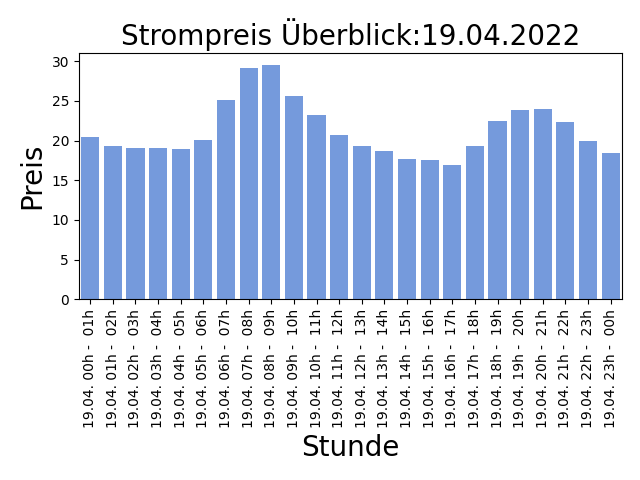
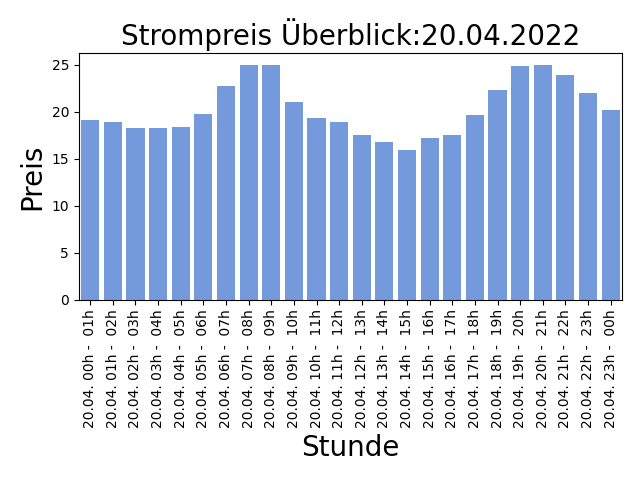
AUTOMATIC UPDATE PRICE LIST: 2022-04-19-14:30:06

diff --git a/README.md b/README.md
@@ -1,5 +1,5 @@
 
-## Strompreise für den 19.04.2022
+## Strompreise für den 20.04.2022
 
 Niedrige Preise deuten auf viel Sonnen und Windenergieerzeugung hin, ein hoher Anteil an erneuerbaren Energien bedeuted weniger CO2 Verbrauch!
 
@@ -7,31 +7,31 @@ Niedrige Preise deuten auf viel Sonnen und Windenergieerzeugung hin, ein hoher A
 
 | Stunde | Preis in Cent/kWh |
 |---|---|
-| 19.04. 00h -  01h | 20.5 | 
-| 19.04. 01h -  02h | 19.298 | 
-| 19.04. 02h -  03h | 19.113999999999997 | 
-| 19.04. 03h -  04h | 19.095 | 
-| 19.04. 04h -  05h | 19.0 | 
-| 19.04. 05h -  06h | 20.061 | 
-| 19.04. 06h -  07h | 25.127000000000002 | 
-| 19.04. 07h -  08h | 29.143 | 
-| 19.04. 08h -  09h | 29.543 | 
-| 19.04. 09h -  10h | 25.571 | 
-| 19.04. 10h -  11h | 23.253999999999998 | 
-| 19.04. 11h -  12h | 20.771 | 
-| 19.04. 12h -  13h | 19.356 | 
-| 19.04. 13h -  14h | 18.706 | 
-| 19.04. 14h -  15h | 17.657 | 
-| 19.04. 15h -  16h | 17.611 | 
-| **19.04. 16h -  17h** | **16.894** | 
-| 19.04. 17h -  18h | 19.333000000000002 | 
-| 19.04. 18h -  19h | 22.493000000000002 | 
-| 19.04. 19h -  20h | 23.903 | 
-| 19.04. 20h -  21h | 24.000999999999998 | 
-| 19.04. 21h -  22h | 22.36 | 
-| 19.04. 22h -  23h | 20.0 | 
-| 19.04. 23h -  00h | 18.419999999999998 | 
+| 20.04. 00h -  01h | 19.1 | 
+| 20.04. 01h -  02h | 18.955000000000002 | 
+| 20.04. 02h -  03h | 18.31 | 
+| 20.04. 03h -  04h | 18.328 | 
+| 20.04. 04h -  05h | 18.338 | 
+| 20.04. 05h -  06h | 19.796 | 
+| 20.04. 06h -  07h | 22.724 | 
+| 20.04. 07h -  08h | 24.991999999999997 | 
+| 20.04. 08h -  09h | 24.990000000000002 | 
+| 20.04. 09h -  10h | 20.996000000000002 | 
+| 20.04. 10h -  11h | 19.35 | 
+| 20.04. 11h -  12h | 18.891 | 
+| 20.04. 12h -  13h | 17.587 | 
+| 20.04. 13h -  14h | 16.837 | 
+| **20.04. 14h -  15h** | **15.89** | 
+| 20.04. 15h -  16h | 17.195 | 
+| 20.04. 16h -  17h | 17.585 | 
+| 20.04. 17h -  18h | 19.615000000000002 | 
+| 20.04. 18h -  19h | 22.294999999999998 | 
+| 20.04. 19h -  20h | 24.9 | 
+| 20.04. 20h -  21h | 25.0 | 
+| 20.04. 21h -  22h | 23.918 | 
+| 20.04. 22h -  23h | 22.009999999999998 | 
+| 20.04. 23h -  00h | 20.197 | 
 
 Preise der EPEX Spot ® Strombörse (neue Preise werden täglich um 14:00 veröffentlicht für den kompletten nächsten Tag).
 
-letzte Aktualisierung:18.04.2022 14:30
+letzte Aktualisierung:19.04.2022 14:30
